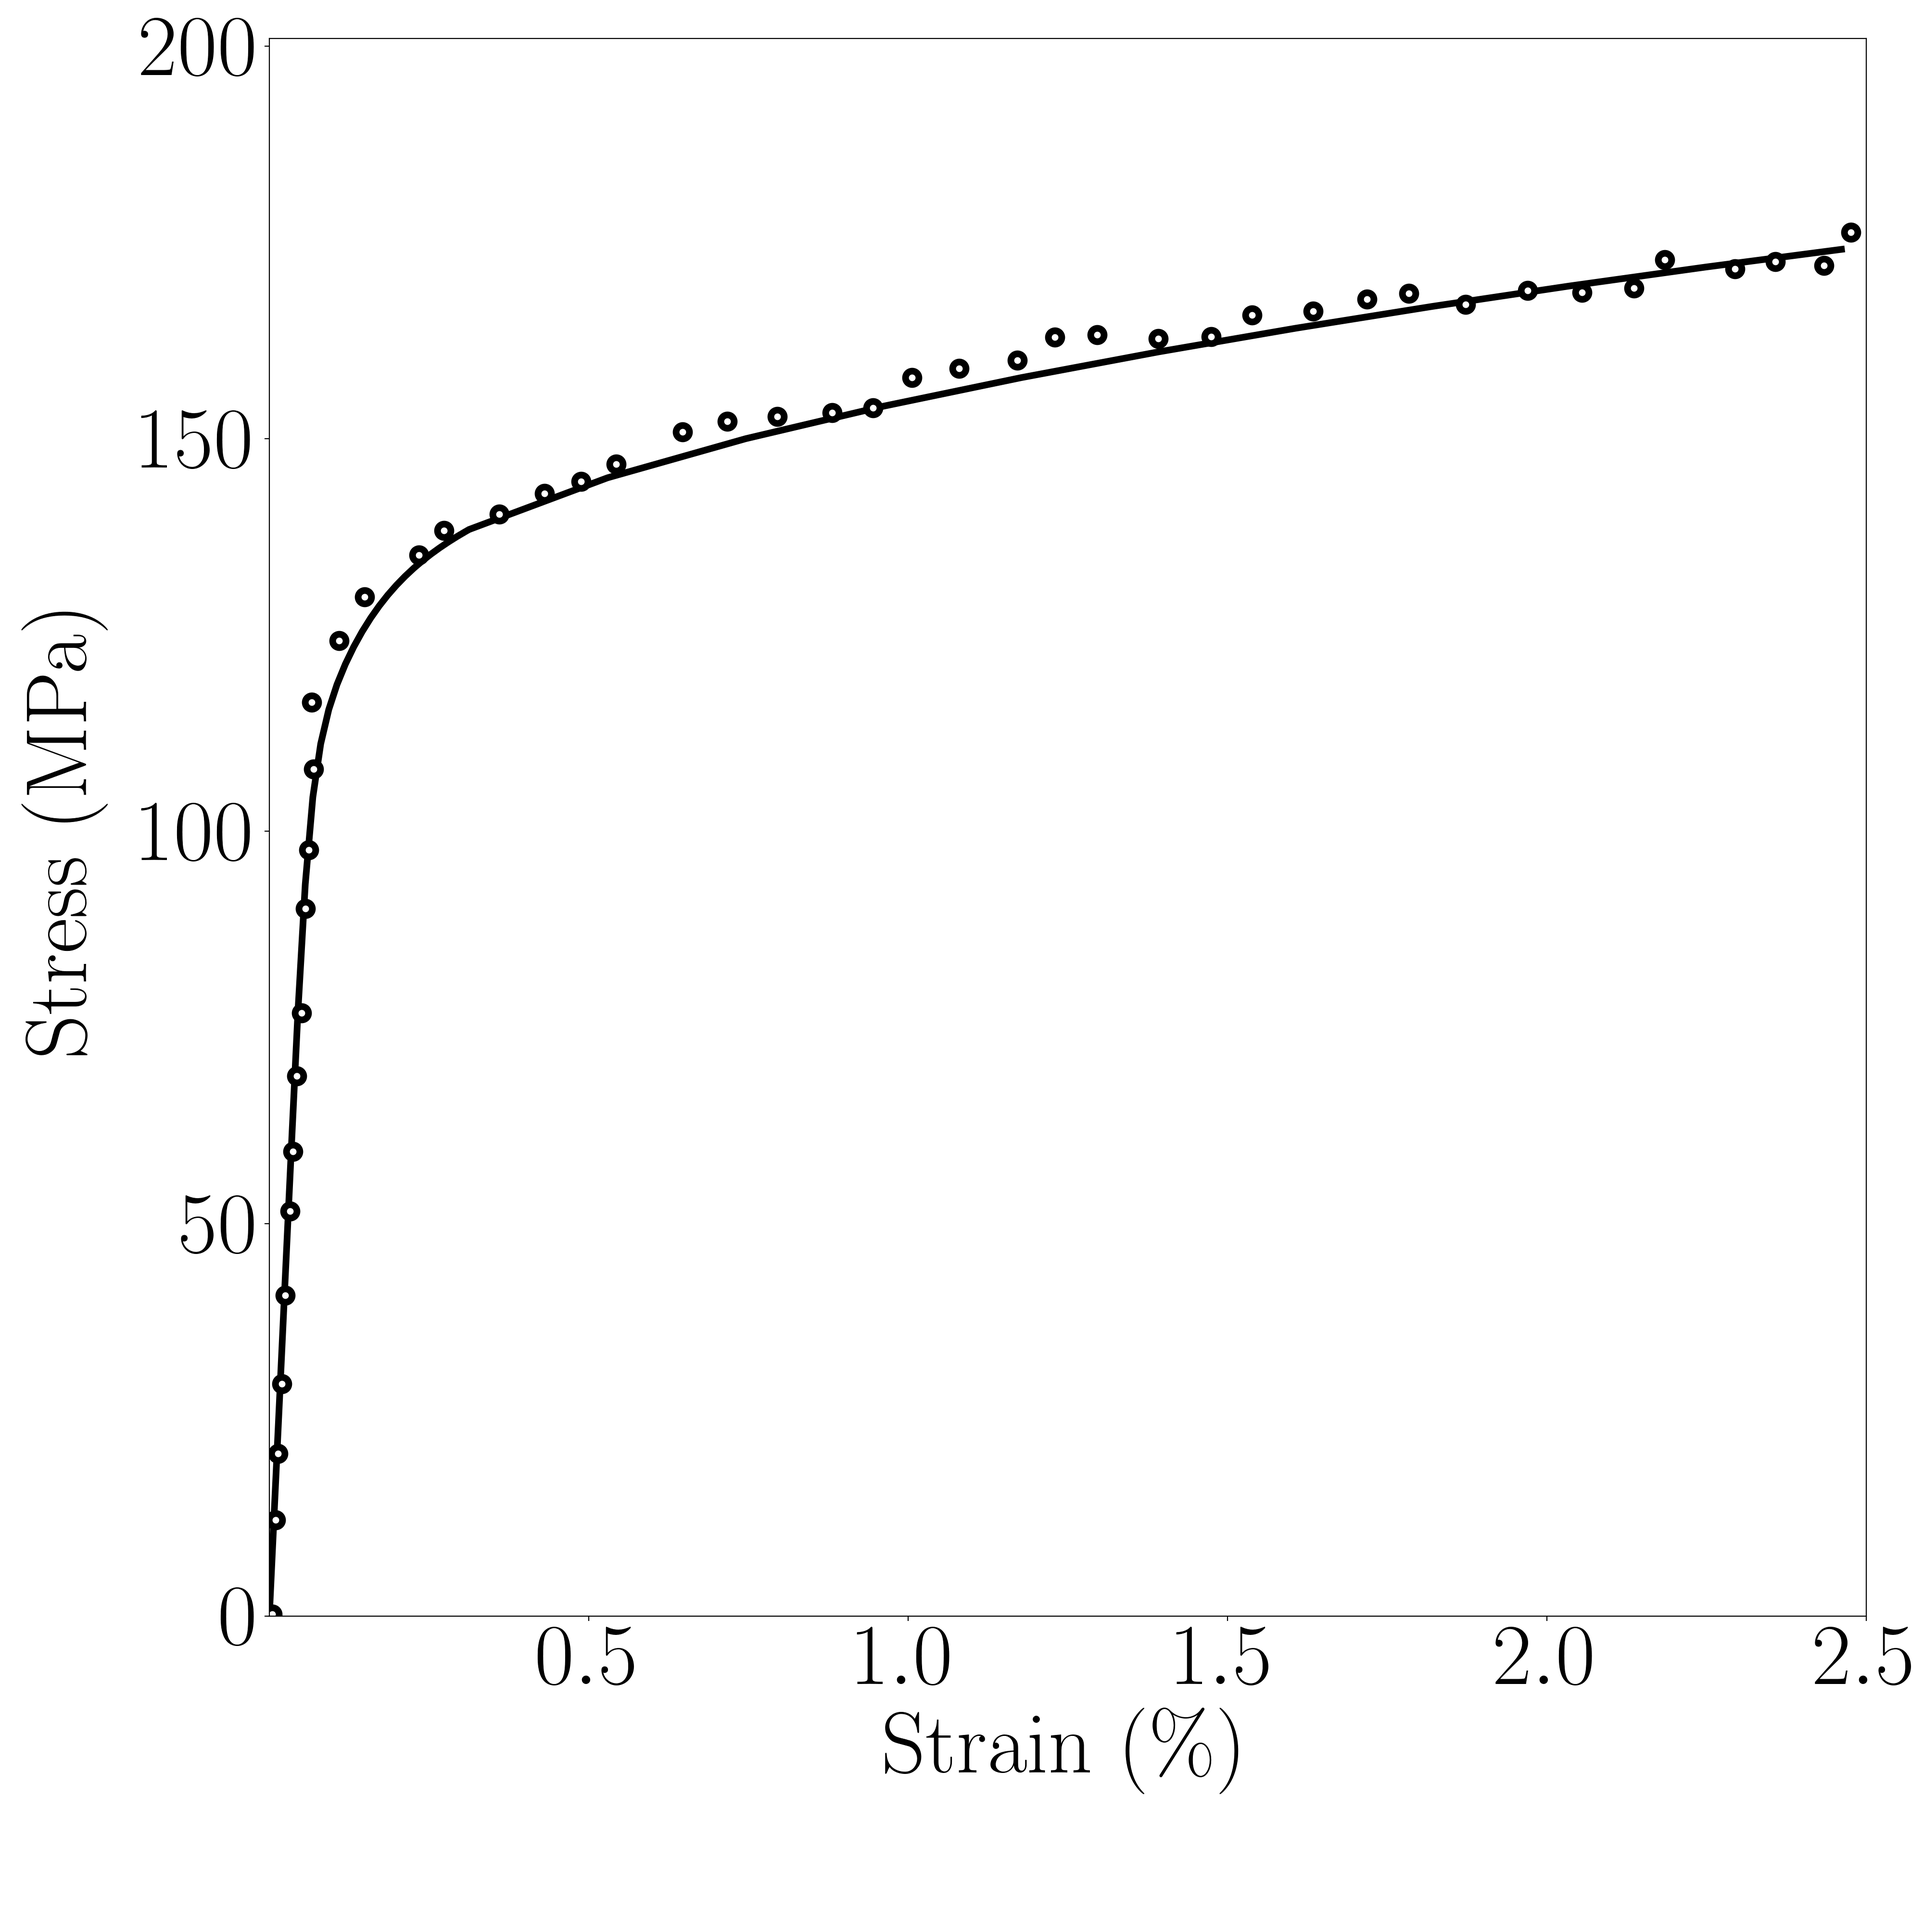
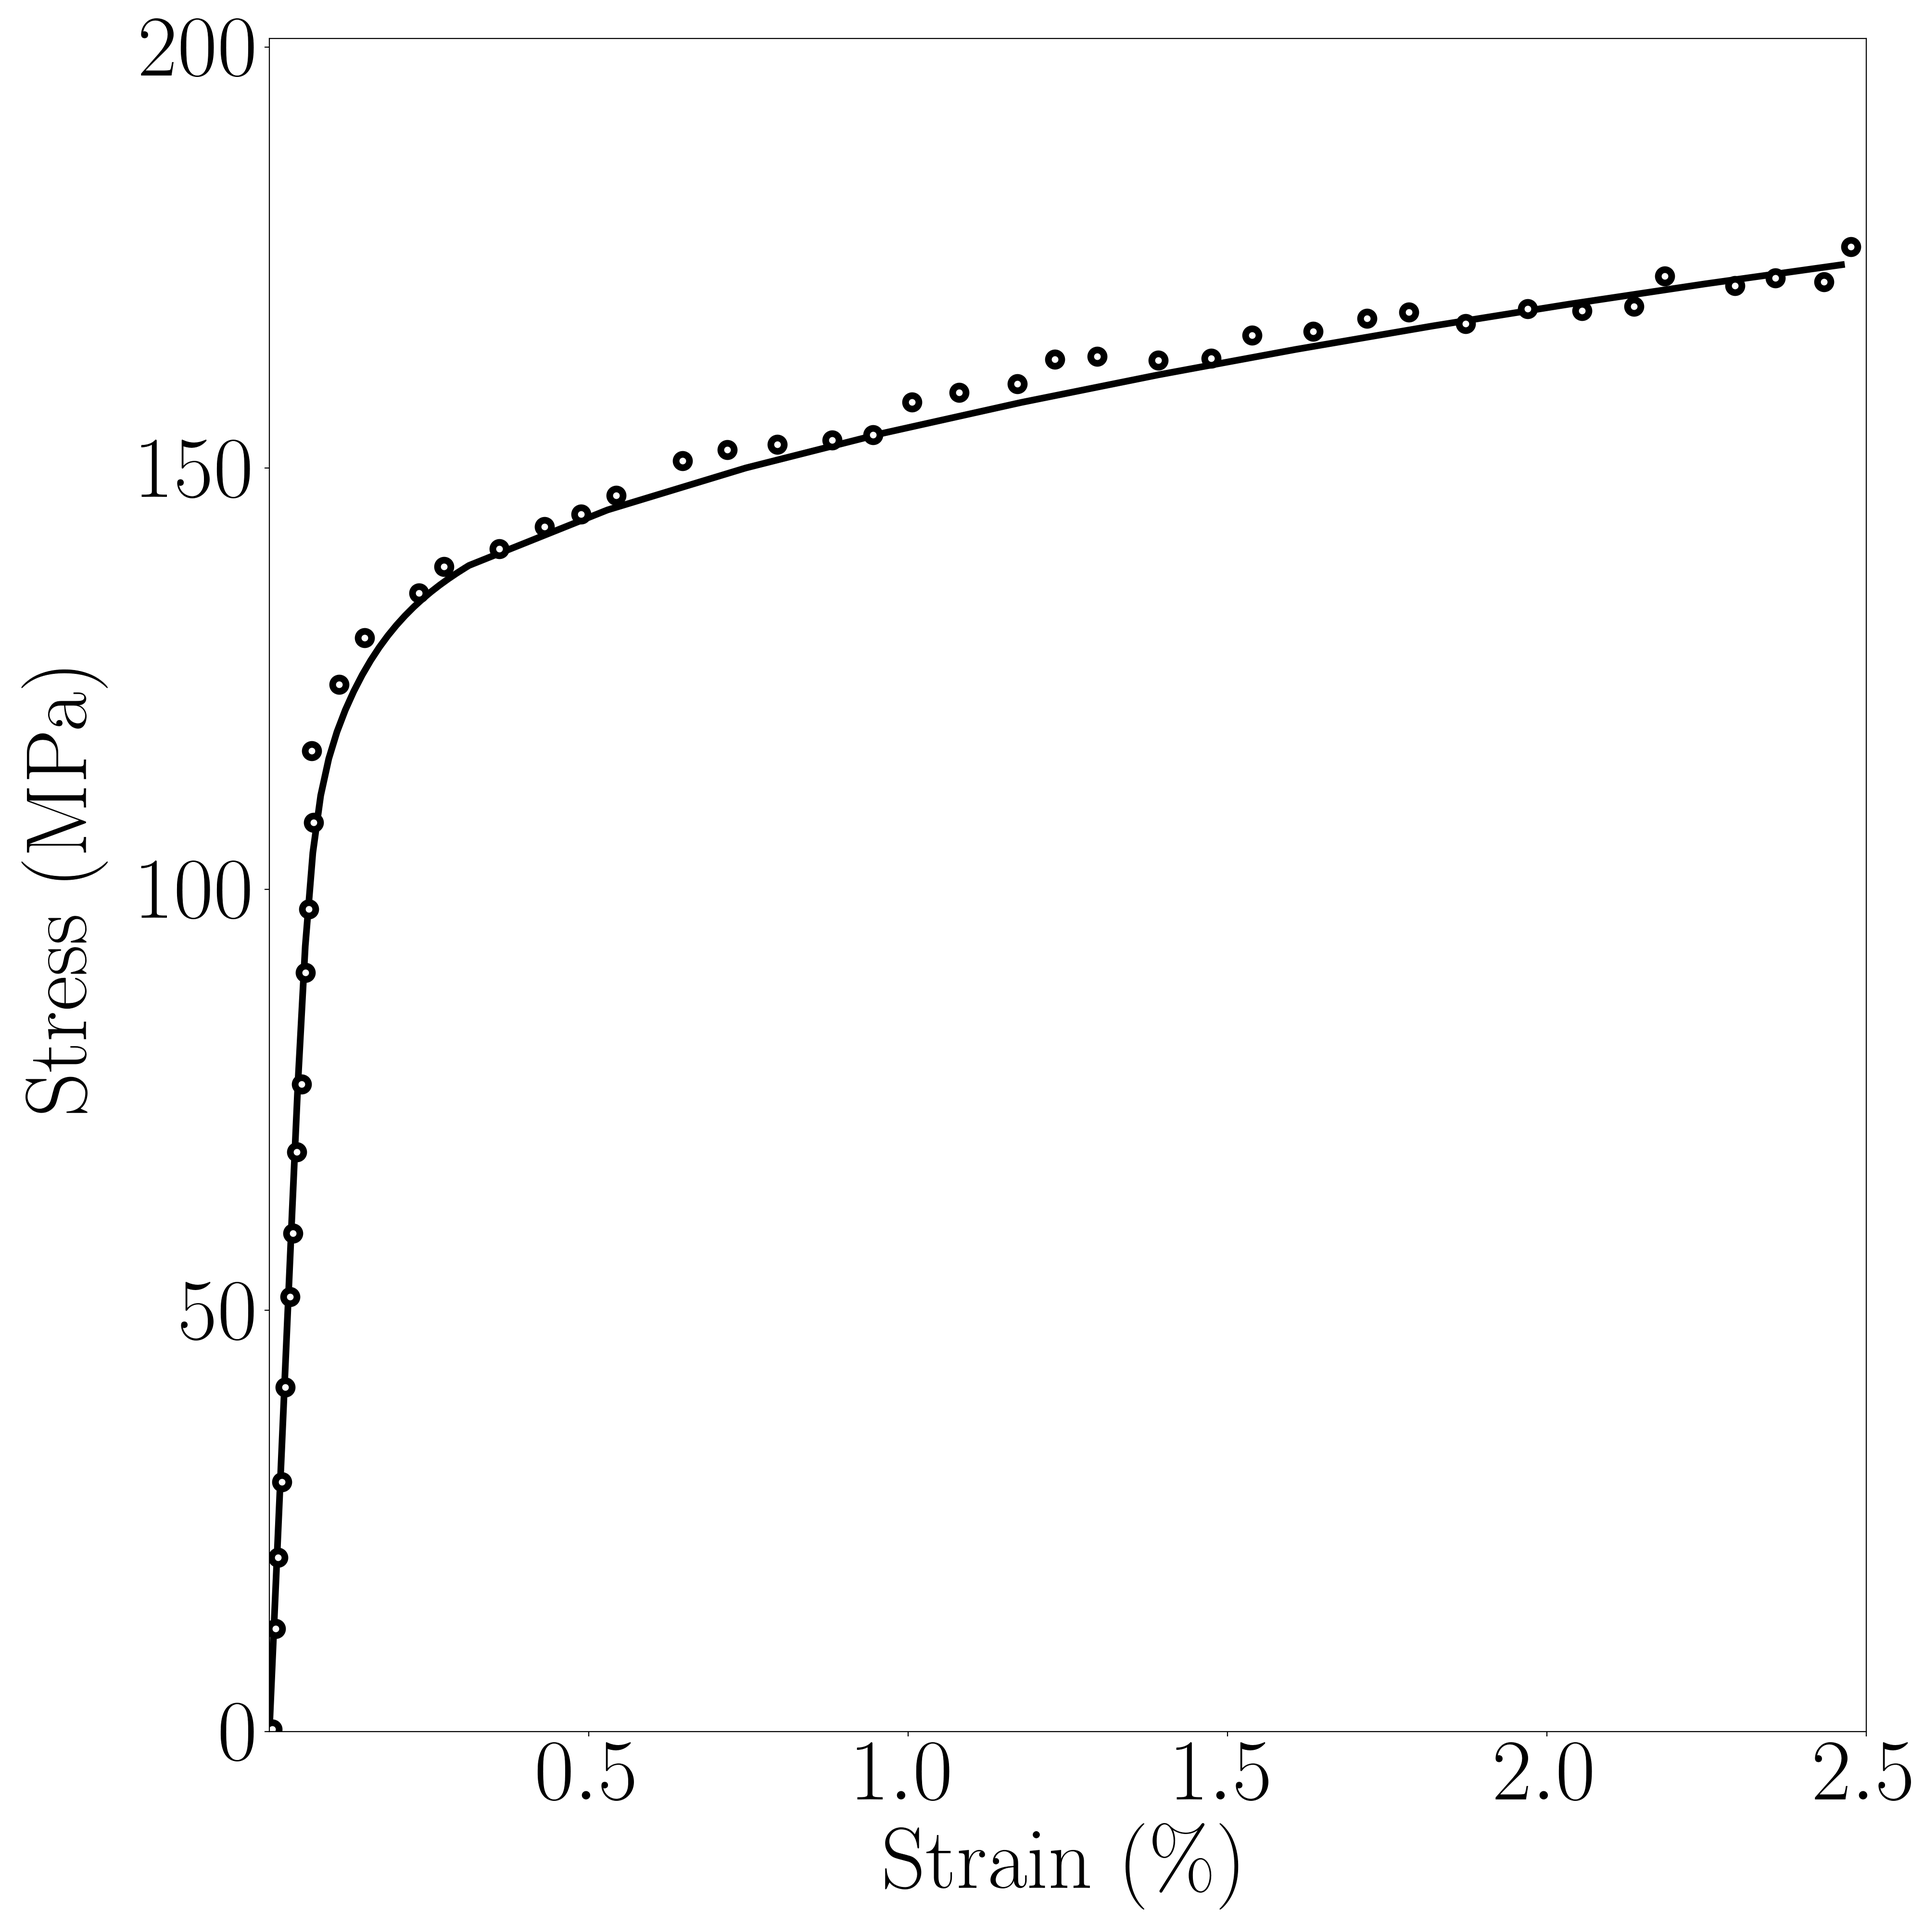
stress_strain_plotting to be done externally

diff --git a/coordinate_axis.py b/coordinate_axis.py
@@ -15,16 +15,23 @@ ax = fig.add_subplot(projection='3d')
 offset= np.array([0,0,0])
 start=np.array([0,0,0])
 xyz_offset = [[0,0,0],[0,0,0],[0,0,0]]
-coordinate_axis(ax,start,space="real",fs=55,leng=0.04,offset_text=1.4,offset=offset,xyz_offset=xyz_offset)
+coordinate_axis(ax,start,space="real_latex",fs=55,leng=0.3,offset_text=1.4,offset=offset,xyz_offset=xyz_offset)
+#coordinate_axis(ax,start,space="real_latex",fs=55,leng=0.04,offset_text=1.4,offset=offset,xyz_offset=xyz_offset)
 #
+x=[1,1,0,0,0,1,1,0]
+y=[1,0,1,0,1,0,1,0]
+z=[1,0,0,1,1,1,0,0]
+ax.scatter(x,y,z,"o")
+ax.scatter(4,-5,4,"ko")
 #ele,azi,roll =[31,-28,0]
+# 28,-58
 ele,azi,roll =[45,45,0]
 ax.view_init(elev=ele, azim=azi)
 ax.set_aspect("equal")
 ax.axis("off")
 plt.grid(False)
 show = True
-show = False
+#show = False
 if show:
        plt.show()
 else:

diff --git a/aps/base_stress_strain_yield.py b/aps/base_stress_strain_yield.py
@@ -80,7 +80,7 @@ lines, labels = [sum(lol, []) for lol in zip(*lines_labels)]
 ax.set_xlabel(x_label)
 ax.set_ylabel(y_label,labelpad=25)
 #plt.tight_layout()
-fig.subplots_adjust(left=0.14, right=0.97,top=0.98, bottom=0.16, wspace=0.1, hspace=0.1)
+fig.subplots_adjust(left=0.14, right=0.97,top=0.98,  bottom=0.1, wspace=0.1, hspace=0.1)
 #plt.show()
 plt.savefig("stress_v_strain.png",dpi=200)
 ax.cla()
